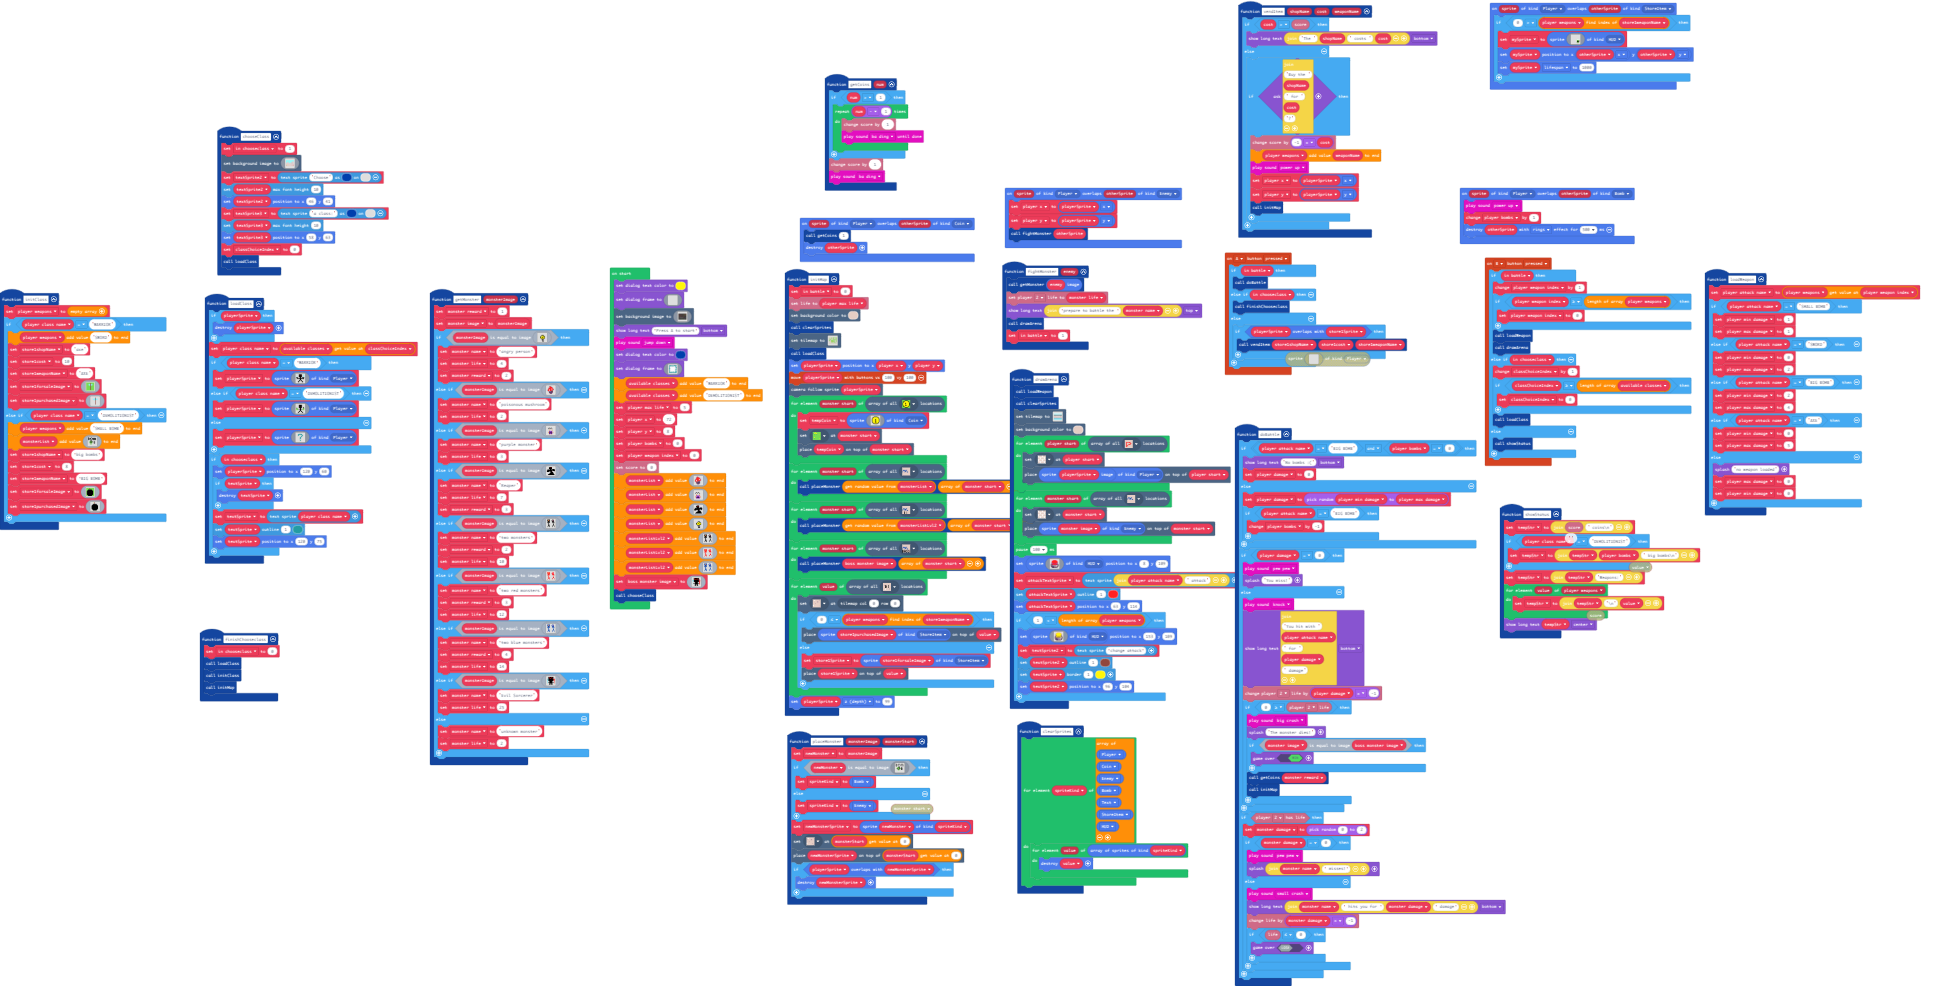
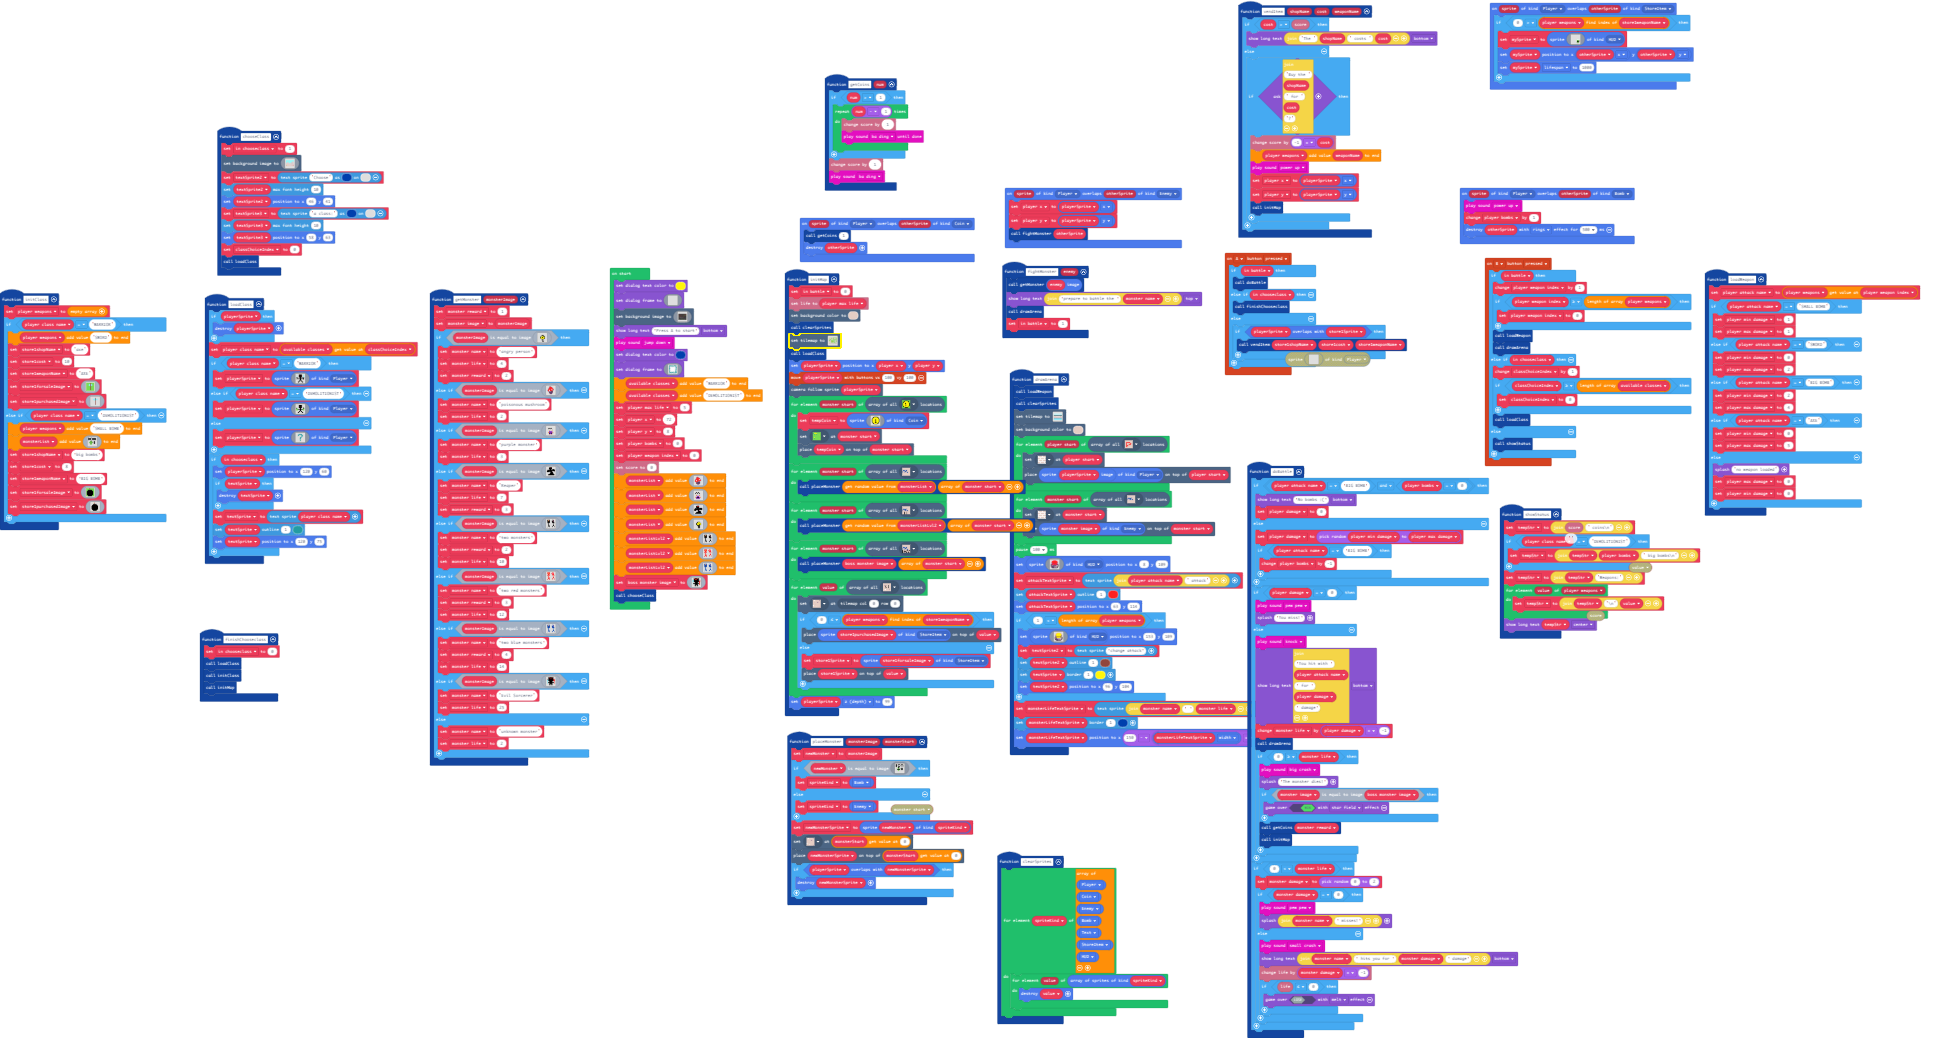
move monster life to text sprites

Changed region(s): [[0.0, 0.0, 0.9933, 1.0], [0.776, 0.0, 0.8691, 0.0913], [0.0931, 0.6085, 0.1552, 0.7302]]

diff --git a/main.ts b/main.ts
@@ -78,7 +78,7 @@ function initMap () {
     for (let monster_start of tiles.getTilesByType(assets.tile`myTile9`)) {
         placeMonster(boss_monster_image, [monster_start])
     }
-    for (let value of tiles.getTilesByType(assets.tile`myTile7`)) {
+    for (let value of tiles.getTilesByType(assets.tile`store0`)) {
         tiles.setTileAt(tiles.getTileLocation(0, 0), sprites.castle.tilePath5)
         if (0 <= player_weapons.indexOf(store1weaponName)) {
             tiles.placeOnTile(sprites.create(store1purchasedImage, SpriteKind.StoreItem), value)
@@ -467,6 +467,9 @@ function drawArena () {
         textSprite.setBorder(1, 5)
         textSprite2.setPosition(96, 104)
     }
+    monsterLifeTextSprite = textsprite.create("" + monster_name + " " + monster_life, 1, 8)
+    monsterLifeTextSprite.setBorder(1, 8)
+    monsterLifeTextSprite.setPosition(150 - monsterLifeTextSprite.width / 2, 5)
 }
 function chooseClass () {
     in_chooseclass = 1
@@ -627,7 +630,6 @@ sprites.onOverlap(SpriteKind.Player, SpriteKind.StoreItem, function (sprite, oth
 })
 function fightMonster (enemy: Sprite) {
     getMonster(enemy.image)
-    info.player2.setLife(monster_life)
     game.showLongText("prepare to battle the " + monster_name, DialogLayout.Top)
     drawArena()
     in_battle = 1
@@ -704,18 +706,19 @@ function doBattle () {
     } else {
         music.knock.play()
         game.showLongText("You hit with " + player_attack_name + " for " + player_damage + " damage", DialogLayout.Bottom)
-        info.player2.changeLifeBy(player_damage * -1)
-        if (0 >= info.player2.life()) {
+        monster_life += player_damage * -1
+        drawArena()
+        if (0 >= monster_life) {
             music.bigCrash.play()
             game.splash("The monster dies!")
             if (monster_image.equals(boss_monster_image)) {
-                game.over(true)
+                game.over(true, effects.starField)
             }
             getCoins(monster_reward)
             initMap()
         }
     }
-    if (info.player2.hasLife()) {
+    if (0 < monster_life) {
         monster_damage = randint(0, 2)
         if (monster_damage == 0) {
             music.pewPew.play()
@@ -725,7 +728,7 @@ function doBattle () {
             game.showLongText("" + monster_name + " hits you for " + monster_damage + " damage", DialogLayout.Bottom)
             info.changeLifeBy(monster_damage * -1)
             if (info.life() <= 0) {
-                game.over(false)
+                game.over(false, effects.melt)
             }
         }
     }
@@ -739,6 +742,7 @@ let monster_damage = 0
 let player_damage = 0
 let mySprite: Sprite = null
 let textSprite3: TextSprite = null
+let monsterLifeTextSprite: TextSprite = null
 let textSprite: TextSprite = null
 let textSprite2: TextSprite = null
 let attackTextSprite: TextSprite = null
@@ -892,27 +896,27 @@ scene.setBackgroundImage(img`
     ffffffffffffffffffffffffffffffffffffffffffffffffffffffffffffffffffffffffffffffffffffffffffffffffffffffffffffffffffffffffffffffffffffffffffffffffffffffffffffffff
     ffffffffffffffffffffffffffffffffffffffffffffffffffffffffffffffffffffffffffffffffffffffffffffffffffffffffffffffffffffffffffffffffffffffffffffffffffffffffffffffff
     ffffffffffffffffffffffffffffffffffffffffffffffffffffffffffffffffffffffffffffffffffffffffffffffffffffffffffffffffffffffffffffffffffffffffffffffffffffffffffffffff
-    ffffffffffffffffffffffffffffffffffffdfffffffffffffffffffffffffffffffffffffffffffffffffffffffffffffffffffffffffffffffffffffffffffffffffffffffffffffffffffffffffff
-    ffffffffffffffffffffffffffffffffffffdfffffffffffffffffffffffffffffffffffffffffffffffffffffffffffffffffffffffffffffffffffffffffffffffffffffffffffffffffffffffffff
[2 lines of base64/hex data omitted]
+    ffffffffffffffffffffffffffffffffffffffffffffffffffffffffffffffffffffffffffffffffffffffffffffffffffffffffffffffffffffffffffffffffffffffffffffffffffffffffffffffff
+    ffffffffffffffffffffffffffffffffffffffffffffffffffffffffffffffffffffffffffffffffffffffffffffffffffffffffffffffffffffffffffffffffffffffffffffffffffffffffffffffff
[35 lines of base64/hex data omitted]
     `)
 game.showLongText("Press A to start", DialogLayout.Bottom)

diff --git a/tilemap.g.ts b/tilemap.g.ts
@@ -27,11 +27,13 @@ namespace myTiles {
     //% fixedInstance jres blockIdentity=images._tile
     export const tile12 = image.ofBuffer(hex``);
     //% fixedInstance jres blockIdentity=images._tile
-    export const tile13 = image.ofBuffer(hex``);
-    //% fixedInstance jres blockIdentity=images._tile
     export const tile14 = image.ofBuffer(hex``);
     //% fixedInstance jres blockIdentity=images._tile
     export const tile15 = image.ofBuffer(hex``);
+    //% fixedInstance jres blockIdentity=images._tile
+    export const tile13 = image.ofBuffer(hex``);
+    //% fixedInstance jres blockIdentity=images._tile
+    export const tile16 = image.ofBuffer(hex``);
 
     helpers._registerFactory("tilemap", function(name: string) {
         switch(helpers.stringTrim(name)) {
@@ -85,7 +87,7 @@ namespace myTiles {
 . . . . . . . . . . . . . . . . 
 `, [myTiles.transparency16,myTiles.tile3], TileScale.Sixteen);
             case "level1":
[2 lines of base64/hex data omitted]
 ..........2222222222
 ......2...22.......2
 ......22..22.......2
@@ -102,7 +104,7 @@ namespace myTiles {
 ..............2222..
 ....................
 ..........2.........
-`, [myTiles.transparency16,sprites.castle.tilePath1,sprites.castle.tilePath2,sprites.castle.tilePath5,sprites.castle.tilePath4,sprites.castle.tilePath7,sprites.castle.tilePath8,sprites.castle.tilePath9,sprites.castle.tilePath3,sprites.castle.tilePath6,sprites.castle.tileGrass2,sprites.castle.tileGrass1,myTiles.tile6,myTiles.tile7,sprites.castle.tileGrass3,myTiles.tile9,myTiles.tile10,myTiles.tile13,myTiles.tile14,myTiles.tile15], TileScale.Sixteen);
+`, [myTiles.transparency16,sprites.castle.tilePath1,sprites.castle.tilePath2,sprites.castle.tilePath5,sprites.castle.tilePath4,sprites.castle.tilePath7,sprites.castle.tilePath8,sprites.castle.tilePath9,sprites.castle.tilePath3,sprites.castle.tilePath6,sprites.castle.tileGrass2,sprites.castle.tileGrass1,myTiles.tile6,myTiles.tile7,sprites.castle.tileGrass3,myTiles.tile9,myTiles.tile10,myTiles.tile13,myTiles.tile14,myTiles.tile15,myTiles.tile16], TileScale.Sixteen);
         }
         return null;
     })
@@ -134,12 +136,14 @@ namespace myTiles {
             case "tile11":return tile11;
             case "myTile6":
             case "tile12":return tile12;
-            case "myTile7":
-            case "tile13":return tile13;
             case "myTile8":
             case "tile14":return tile14;
             case "myTile9":
             case "tile15":return tile15;
+            case "store0":
+            case "tile13":return tile13;
+            case "store1":
+            case "tile16":return tile16;
         }
         return null;
     })
